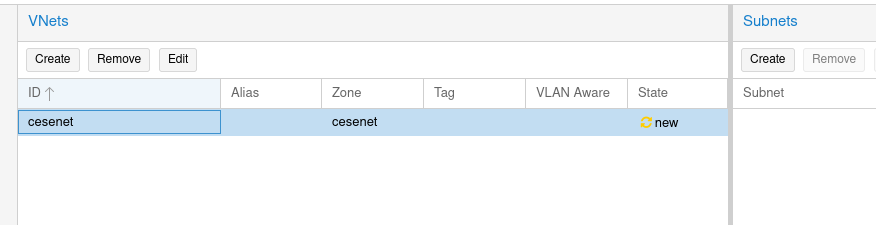
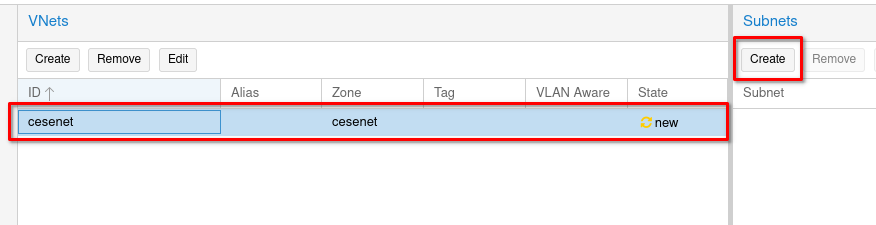
Add SDN section

Changed region(s): [[0.0, 0.4356, 0.863, 0.6533], [0.8322, 0.1556, 0.9247, 0.3733]]

diff --git a/docs/source/networking.rst b/docs/source/networking.rst
@@ -1,48 +1,134 @@
-Once you have a working cluster, you may need to configure the network to:
+===========================
+Proxmox Network Configuration Guide
+===========================
 
-- Enable communication between containers and VMs on the same node
-- Enable communication between containers and VMs on different nodes
-- Provide internet access to containers and VMs
-- Set up DHCP
-- ...
+Introduction
+============
 
-The current network configuration is the following : 
+Once you have a working Proxmox cluster, configuring the network is essential to:
 
-Each server have only one network interface (NIC) and a bridge. The interface is configured in DHCP and the bridge is linked to the interface. 
+- Enable communication between containers and VMs on the same node.
+- Enable communication between containers and VMs on different nodes.
+- Provide internet access to containers and VMs.
+- Set up DHCP.
+
+Current Network Configuration
+=============================
+
+Each server has only one network interface (NIC) and a bridge. The interface is configured via DHCP, and the bridge is linked to the interface.
 
 .. image:: ./images/2_PX.png
     :alt: Proxmox Cluster
     :align: center
 
-You can check your network configure in Datacenter > Servername > Network : 
+You can check your network configuration in `Datacenter > Servername > Network`:
 
 .. image:: ./images/ntw_conf.png
-    :alt: Network Conf On GUI
+    :alt: Network Configuration on GUI
     :align: center
 
-The main issue here is that we can not configure the VM with IP from the same network as the ip pool is restricted. This is why we need to create a local network. 
-The easiest way to do this is to use Software-Defined Networking (SDN).  
+### The Issue
 
+The main issue here is the limited IP pool, which restricts configuring VMs with IPs from the same network. To solve this, we need to create a local network using Software-Defined Networking (SDN).
 
 Software-Defined Networking (SDN)
----------------------------------
+=================================
 
+### What is SDN?
 
-Bridge Configuration
---------------------
+**Software-Defined Networking (SDN)** in Proxmox allows you to create a flexible and scalable network. It separates the control plane from the data plane, enabling centralized management of network resources.
 
-Due to a limited number of available IP addresses from our network pool and the need for VMs and containers to have IP addresses, we created a network bridge on each node. A network bridge acts as a virtual switch that allows you to connect all your VMs and containers. Each bridge is assigned a local IP address. At this stage, VMs connected to the bridge can communicate with each other but cannot access external networks. To enable external communication, we need to configure **Network Address Translation (NAT)**.
+### Creating an SDN Zone
 
-.. _Bridge:
+To create your SDN, follow these steps:
 
-Network Address Translation (NAT)
----------------------------------
+1. **Navigate to Datacenter > SDN > Zones and click "Add"**:
 
-**Network Address Translation (NAT)** allows multiple devices on a local network to share a single public IP address for accessing external networks. It modifies the IP address information in the headers of IP packets while they are in transit, enabling the devices to communicate with external networks while preserving the limited pool of IP addresses.
+.. image:: ./images/new_SDN.png
+    :alt: Add SDN Zone
+    :align: center
 
+2. **Choose the "Simple" option**:
 
-.. image:: ./images/nat.png
-   :alt: Network Address Translation
-   :align: center
+   - **Id**: The name of the Zone.
+   - **Nodes**: Select the nodes you want to add to your SDN.
+   - **IPAM**: Choose the IP Address Management method.
 
-.. _NAT:
+You can also add a DNS and reverse DNS. Make sure to choose the **"Automatic DHCP"** option to allow your VMs and LXC containers to be automatically configured via DHCP. Once done, click **"Add"**.
+
+.. image:: ./images/SDN_option.png
+    :alt: SDN Options
+    :align: center
+
+### Adding a Virtual Network (VNets)
+
+Next, you need to add a Virtual Network (VNet):
+
+1. **Navigate to Datacenter > SDN > VNets and click "Create"**:
+
+.. image:: ./images/SDN_VNETS.png
+    :alt: Add VNets
+    :align: center
+
+2. **Configure the VNet**:
+
+   - **Name**: Can be the same as the Zone.
+   - **Zone**: Select the Zone where you want to set the VNet.
+
+.. image:: ./images/VNETS_option.png
+    :alt: VNet Options
+    :align: center
+
+### Adding a Subnet
+
+Once the VNet is created, you need to add a Subnet:
+
+1. **Select the VNet and click "Create" in the Subnet section (right)**:
+
+.. image:: ./images/VNETS_created.png
+    :alt: VNets
+    :align: center
+
+2. **Configure the Subnet**:
+
+   - **Subnet**: Specify the IP/Mask of the VNet.
+   - **Gateway**: Define the gateway.
+   - **SNAT**: Enable Source Network Address Translation (SNAT). SNAT allows multiple devices on a local network to share a single public IP address for accessing external networks.
+
+.. image:: ./images/vnet_subnet.png
+    :alt: Subnet Options
+    :align: center
+
+### Setting DHCP Ranges
+
+Configure the range of IP addresses for your cluster:
+
+1. **Go to "DHCP Ranges" and set the range of IP addresses for your cluster**.
+2. **Click "Create"**.
+
+.. image:: ./images/vnet_dhcp.png
+    :alt: DHCP Range Configuration
+    :align: center
+
+### Applying the Configuration
+
+After configuring your VNets and Subnets, apply the configuration:
+
+1. **Navigate to Datacenter > SDN and click "Apply"**:
+
+.. image:: ./images/SDN_apply.png
+    :alt: Apply SDN Configuration
+    :align: center
+
+After a few seconds, you should see a success message:
+
+.. image:: ./images/SDN_success.png
+    :alt: SDN Configuration Success
+    :align: center
+
+You now have a functional Software-Defined Network. The next step is to create a container with the SDN.
+
+Conclusion
+==========
+
+By following these steps, you can configure your Proxmox network to enable efficient communication and management of your VMs and containers. Leveraging Software-Defined Networking (SDN) provides flexibility, scalability, and centralized control, ensuring your virtual environment is robust and easy to manage.

diff --git a/docs/source/index.rst b/docs/source/index.rst
@@ -12,5 +12,6 @@ In this documentation, you will find detailed instructions on how to configure a
    default_config
    8021X
    cluster_join
+   networking
    proxmox_lab
 
